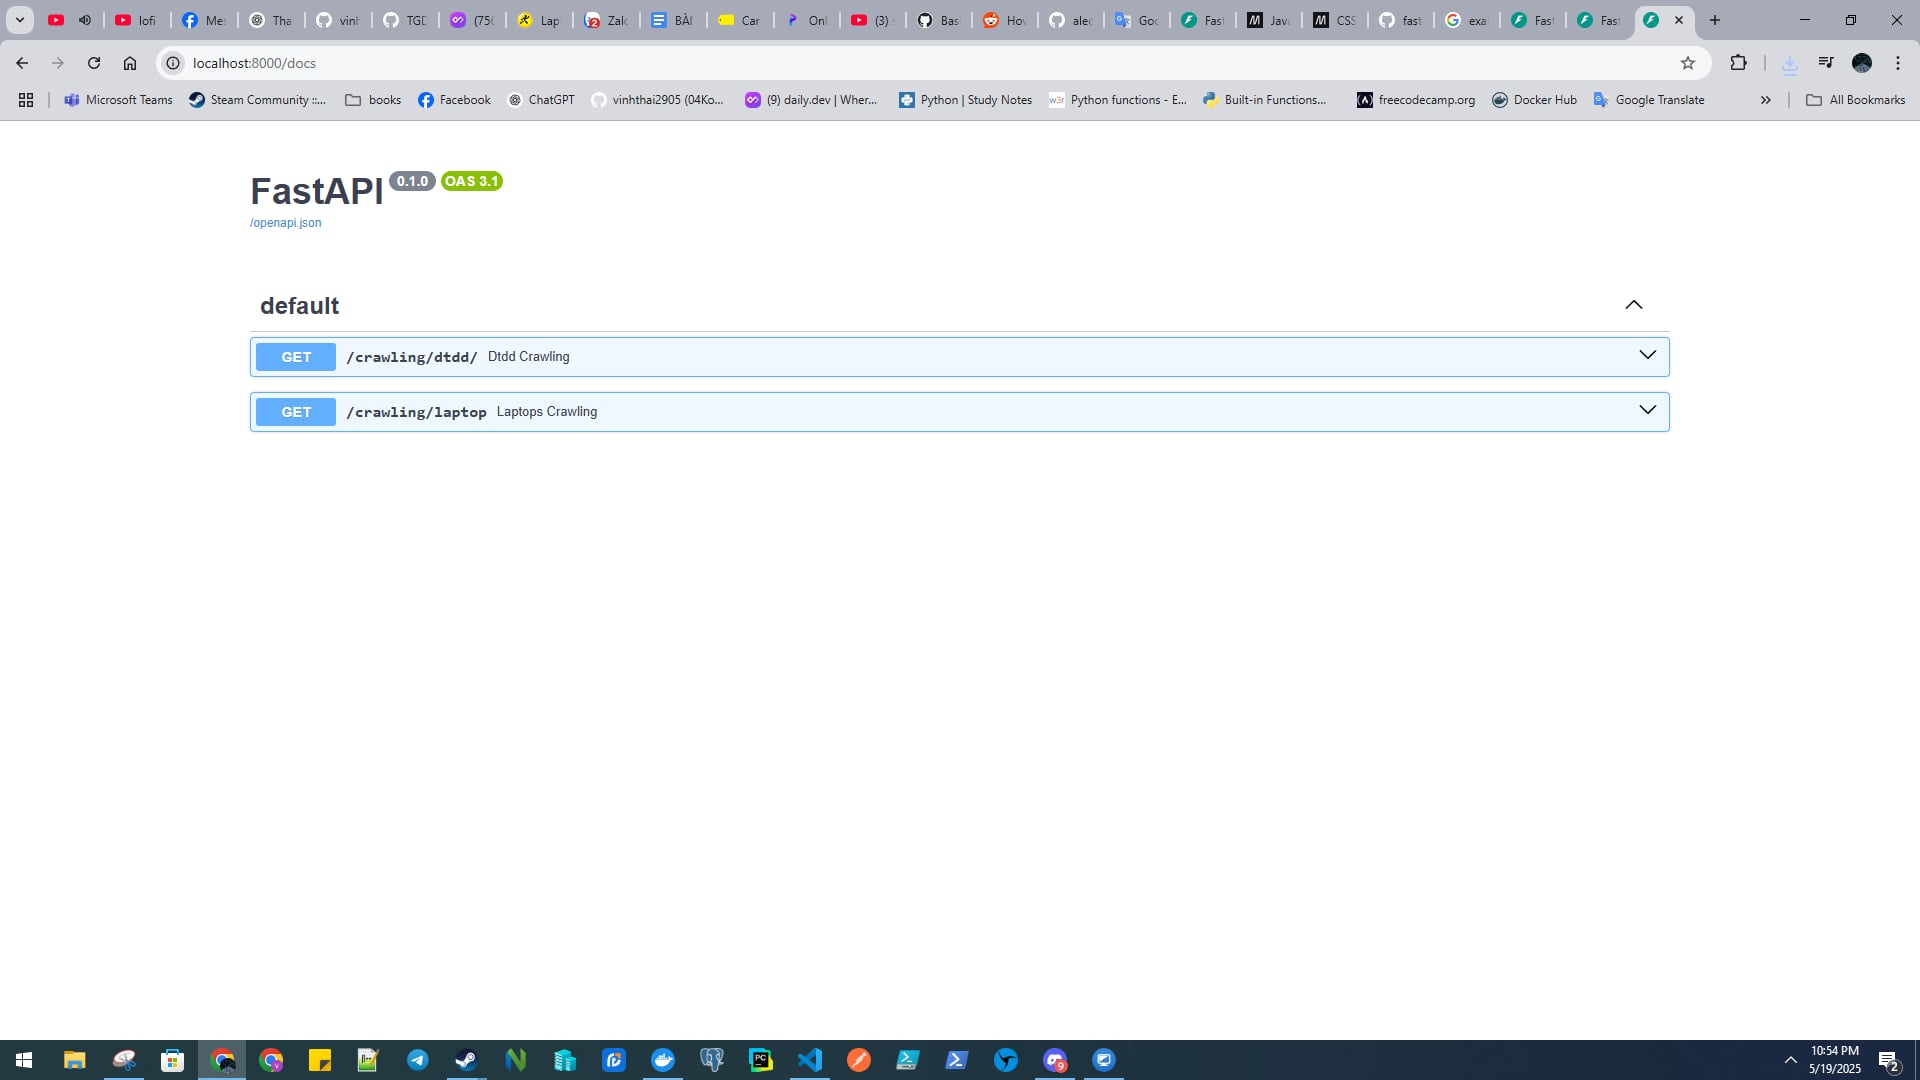
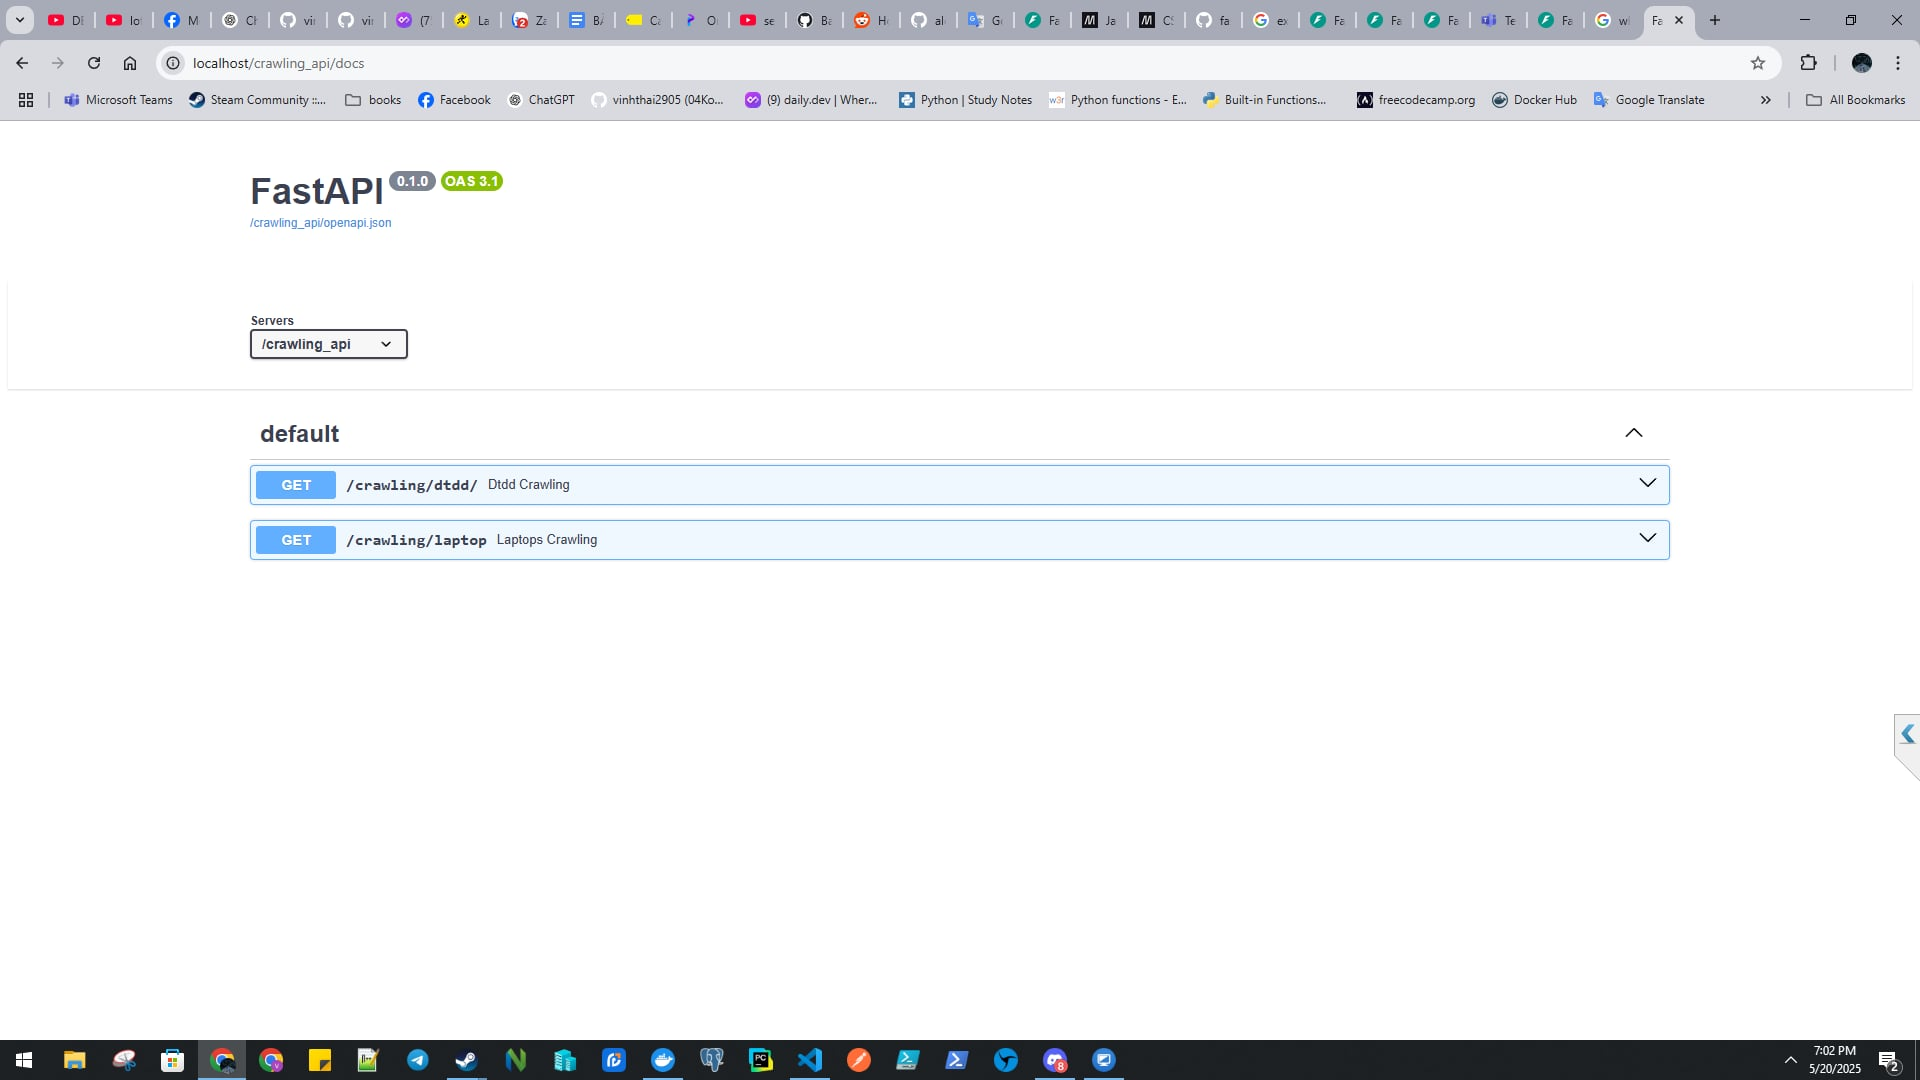
updated README.MD and Dockerfile of Web page

diff --git a/README.MD b/README.MD
@@ -23,6 +23,8 @@ The websites in which product data are being scraped:
 
 🐳 [Docker](https://www.docker.com/) - Used for isolating services and encapsulating necessary things for the software instead of doing it traditional ways.
 
+🧭 [NGINX](https://nginx.org/) - Acts as a gateway that routes frontend and backend services under a unified interface.
+
 ### Core Packages:
 
 ⚡ [FastAPI](https://fastapi.tiangolo.com/) - Used for building microservices for scraping and inserting data.
@@ -78,13 +80,17 @@ The websites in which product data are being scraped:
 
 5. docker-compose -f./docker-compose.yml -p tgdd down
 
-## 💡 Interactive API Docs
+## 💡 Interactive Services Routed through [NGINX](https://nginx.org/)
+
+### Web Page Service Container
+
+![Screenshot of UI](assets/nginx.png)
 
 ### Data Crawling API Service Container
 
 ![Screenshot of UI](assets/8000.png)
 
-### Data Ingestion API Service 
+### Data Ingestion API Service Container
 
 ![Screenshot of UI](assets/8001.png)
 
